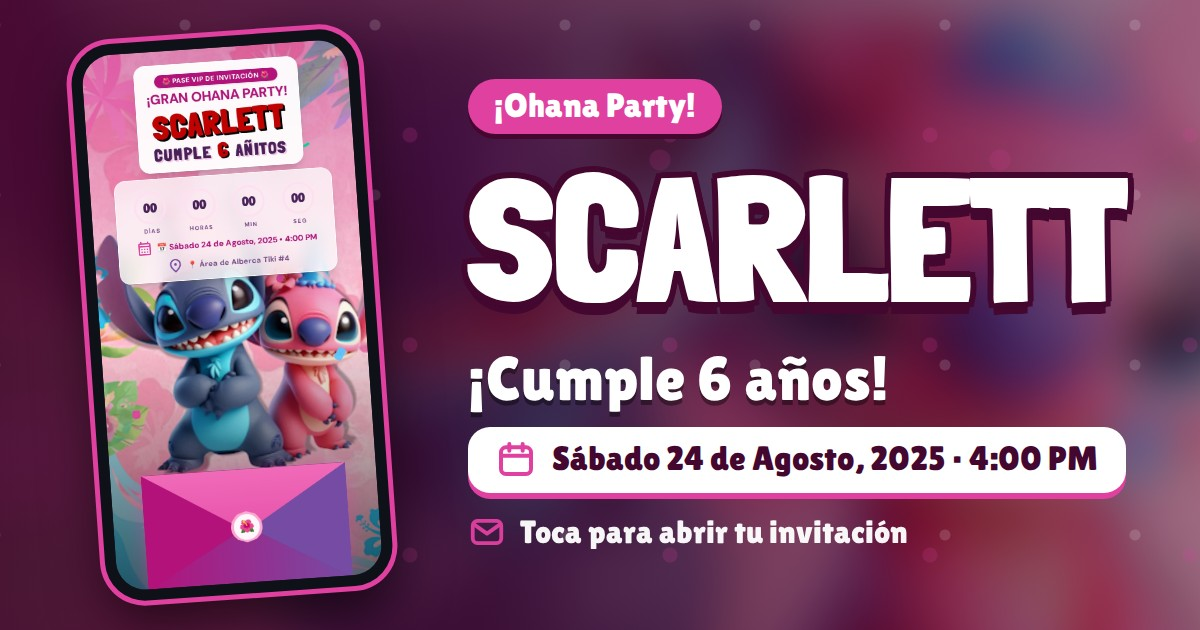
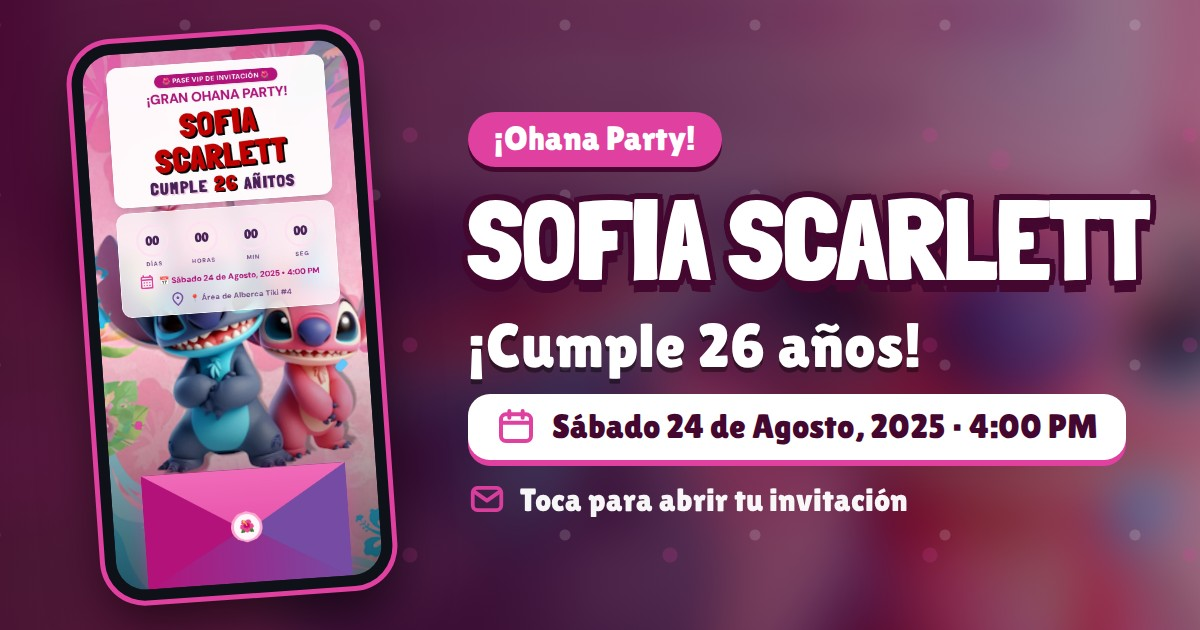
Miniaturas de WhatsApp actualizadas: lilo-stitch

diff --git a/stitchf/index.html b/stitchf/index.html
@@ -7,19 +7,19 @@
 <meta name="description" content="📅 Sábado 24 de Agosto, 2025 · 4:00 PM. Abre tu invitación, mira los detalles y confirma tu asistencia." />
 <meta property="og:type" content="website" />
 <meta property="og:locale" content="es_MX" />
-<meta property="og:title" content="¡Ohana Party! — ¡Scarlett cumple 6!" />
+<meta property="og:title" content="¡Ohana Party! — ¡SOFIA Scarlett cumple 26!" />
 <meta property="og:description" content="📅 Sábado 24 de Agosto, 2025 · 4:00 PM. Abre tu invitación, mira los detalles y confirma tu asistencia." />
-<meta property="og:image" content="https://escritoriopublico.github.io/inv/stitchf/og/lilo-stitch.jpg?v=ad3aec92" />
-<meta property="og:image:secure_url" content="https://escritoriopublico.github.io/inv/stitchf/og/lilo-stitch.jpg?v=ad3aec92" />
+<meta property="og:image" content="https://escritoriopublico.github.io/inv/stitchf/og/lilo-stitch.jpg?v=f4922b3b" />
+<meta property="og:image:secure_url" content="https://escritoriopublico.github.io/inv/stitchf/og/lilo-stitch.jpg?v=f4922b3b" />
 <meta property="og:image:type" content="image/jpeg" />
 <meta property="og:image:width" content="1200" />
 <meta property="og:image:height" content="630" />
-<meta property="og:image:alt" content="Invitación digital de cumpleaños de Scarlett (6 años) — ¡Ohana Party!" />
+<meta property="og:image:alt" content="Invitación digital de cumpleaños de SOFIA Scarlett (26 años) — ¡Ohana Party!" />
 <meta name="twitter:card" content="summary_large_image" />
-<meta name="twitter:title" content="¡Ohana Party! — ¡Scarlett cumple 6!" />
+<meta name="twitter:title" content="¡Ohana Party! — ¡SOFIA Scarlett cumple 26!" />
 <meta name="twitter:description" content="📅 Sábado 24 de Agosto, 2025 · 4:00 PM. Abre tu invitación, mira los detalles y confirma tu asistencia." />
-<meta name="twitter:image" content="https://escritoriopublico.github.io/inv/stitchf/og/lilo-stitch.jpg?v=ad3aec92" />
-<meta name="twitter:image:alt" content="Invitación digital de cumpleaños de Scarlett (6 años) — ¡Ohana Party!" />
+<meta name="twitter:image" content="https://escritoriopublico.github.io/inv/stitchf/og/lilo-stitch.jpg?v=f4922b3b" />
+<meta name="twitter:image:alt" content="Invitación digital de cumpleaños de SOFIA Scarlett (26 años) — ¡Ohana Party!" />
 <!--/og-auto-->
     <title>¡Ohana Party! - Cumpleaños de Scarlett</title>
     <link rel="preconnect" href="https://fonts.googleapis.com" />
